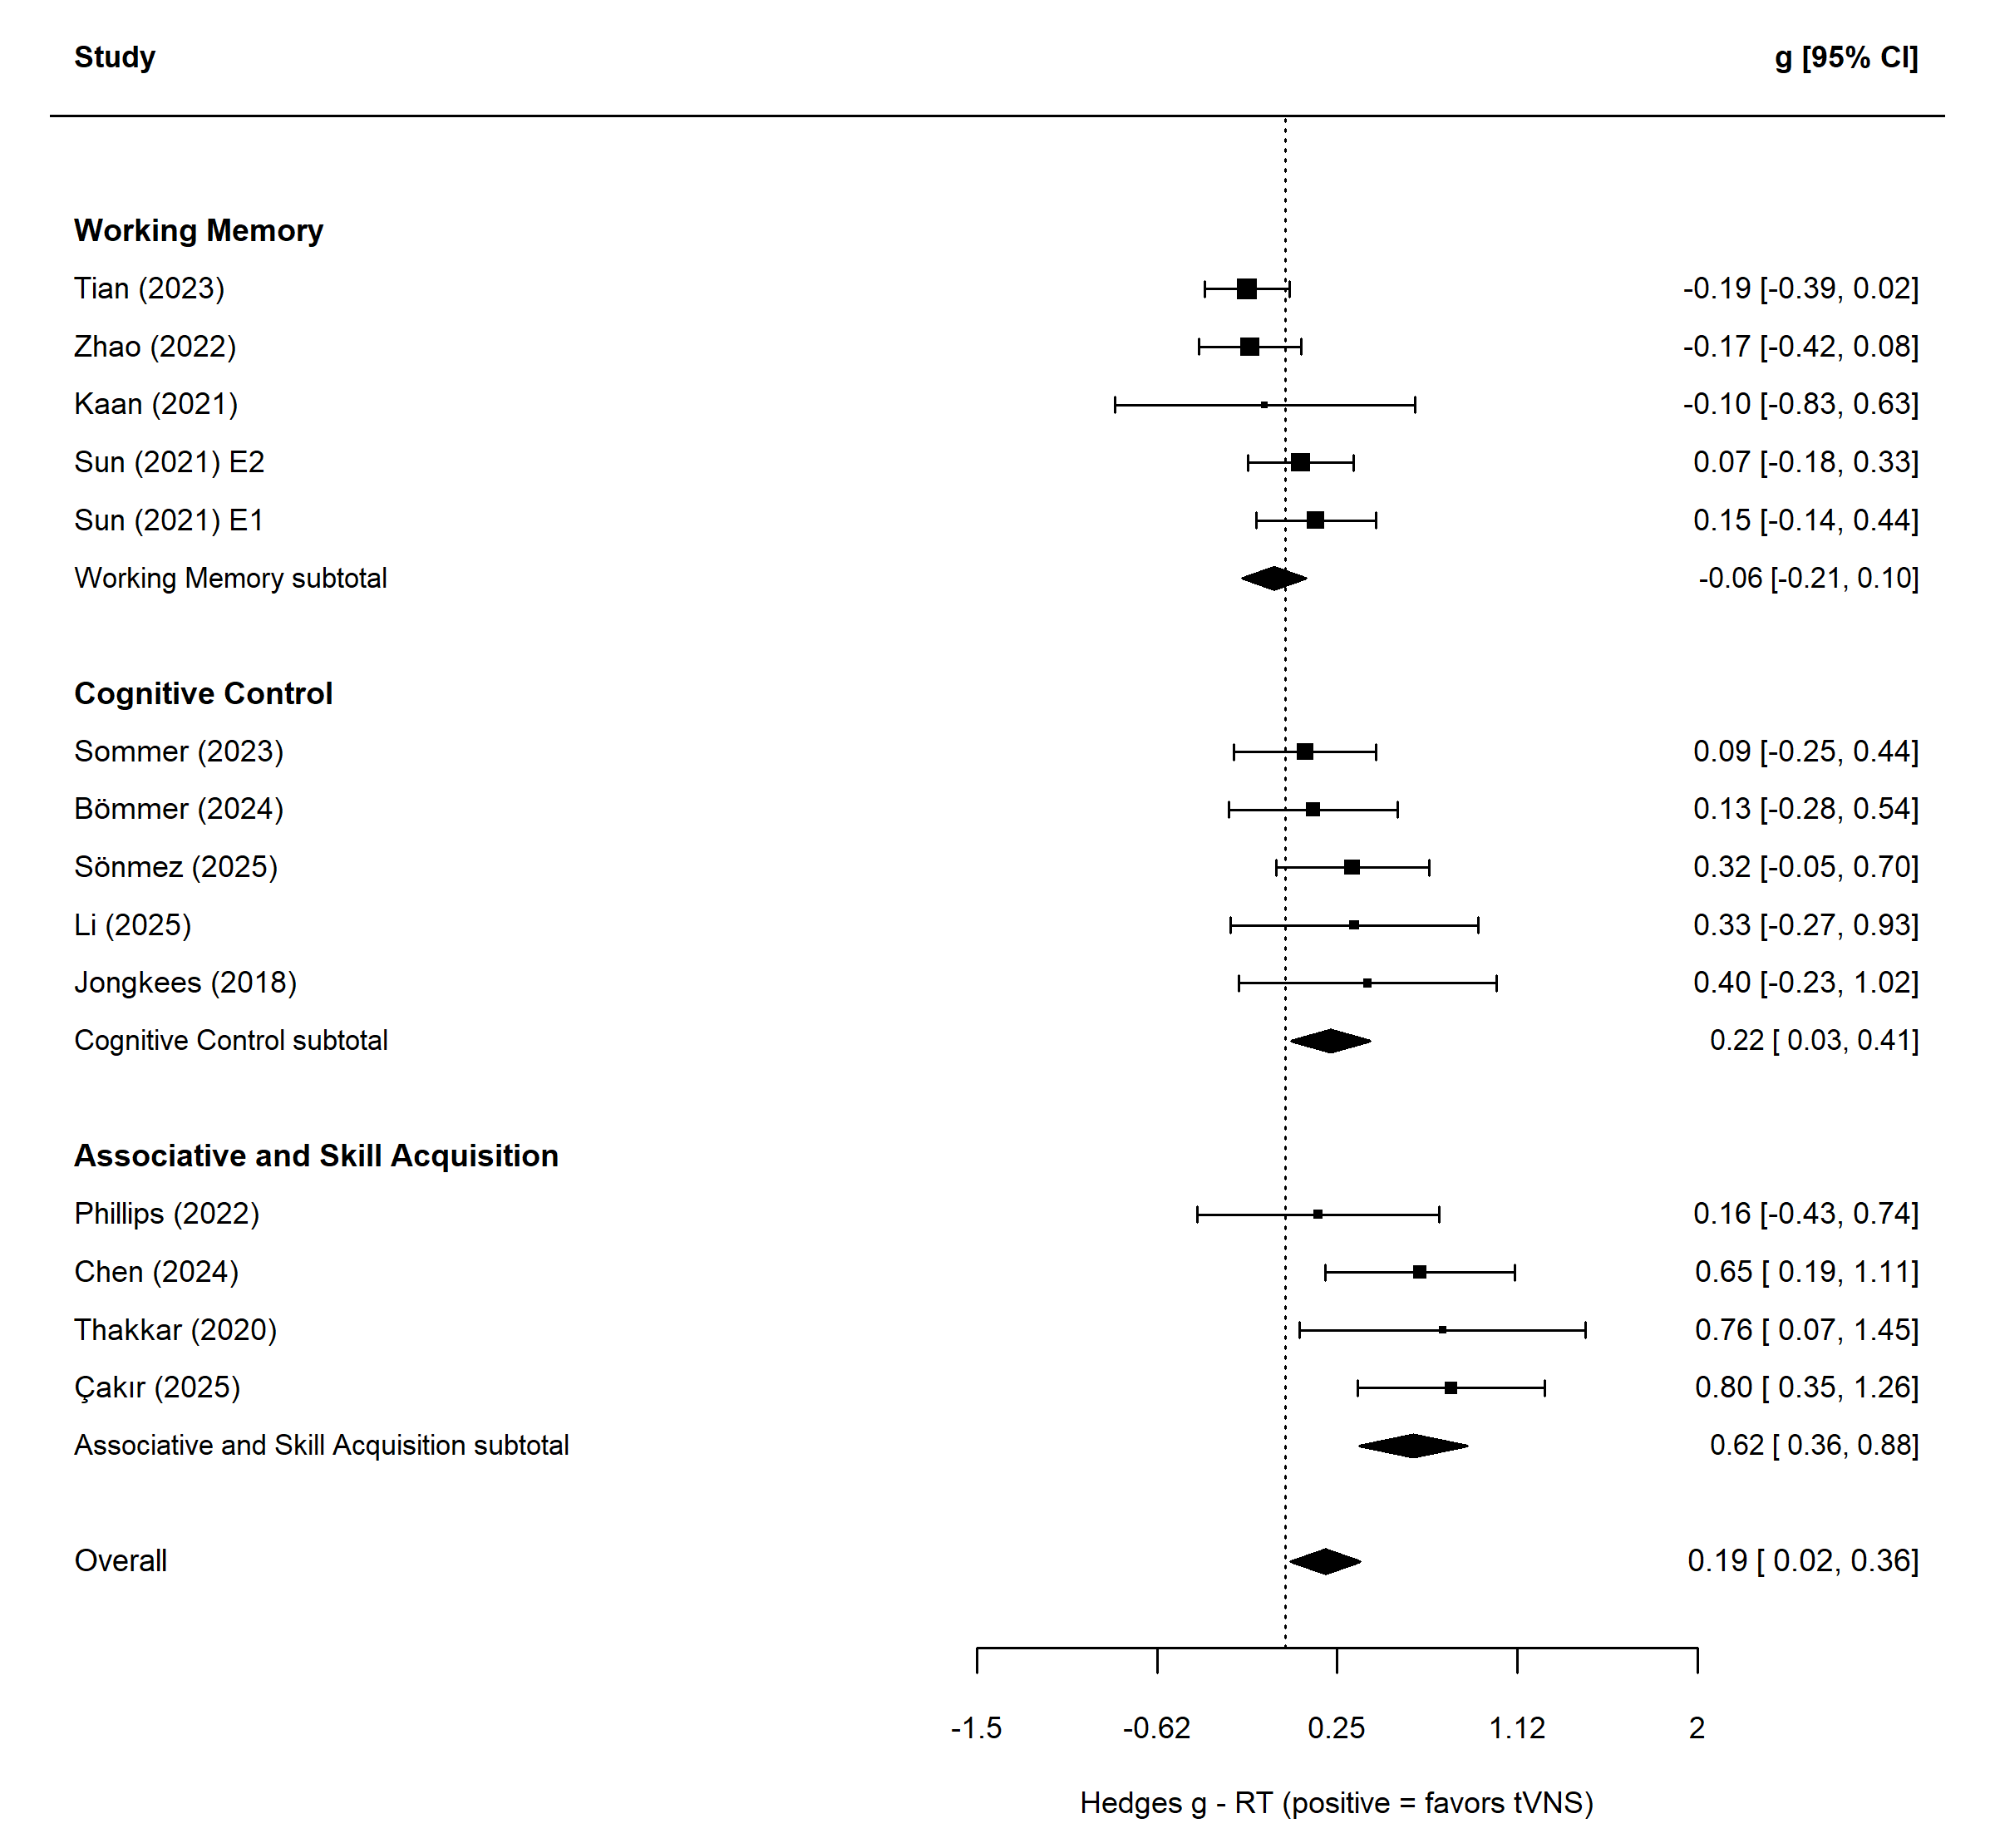
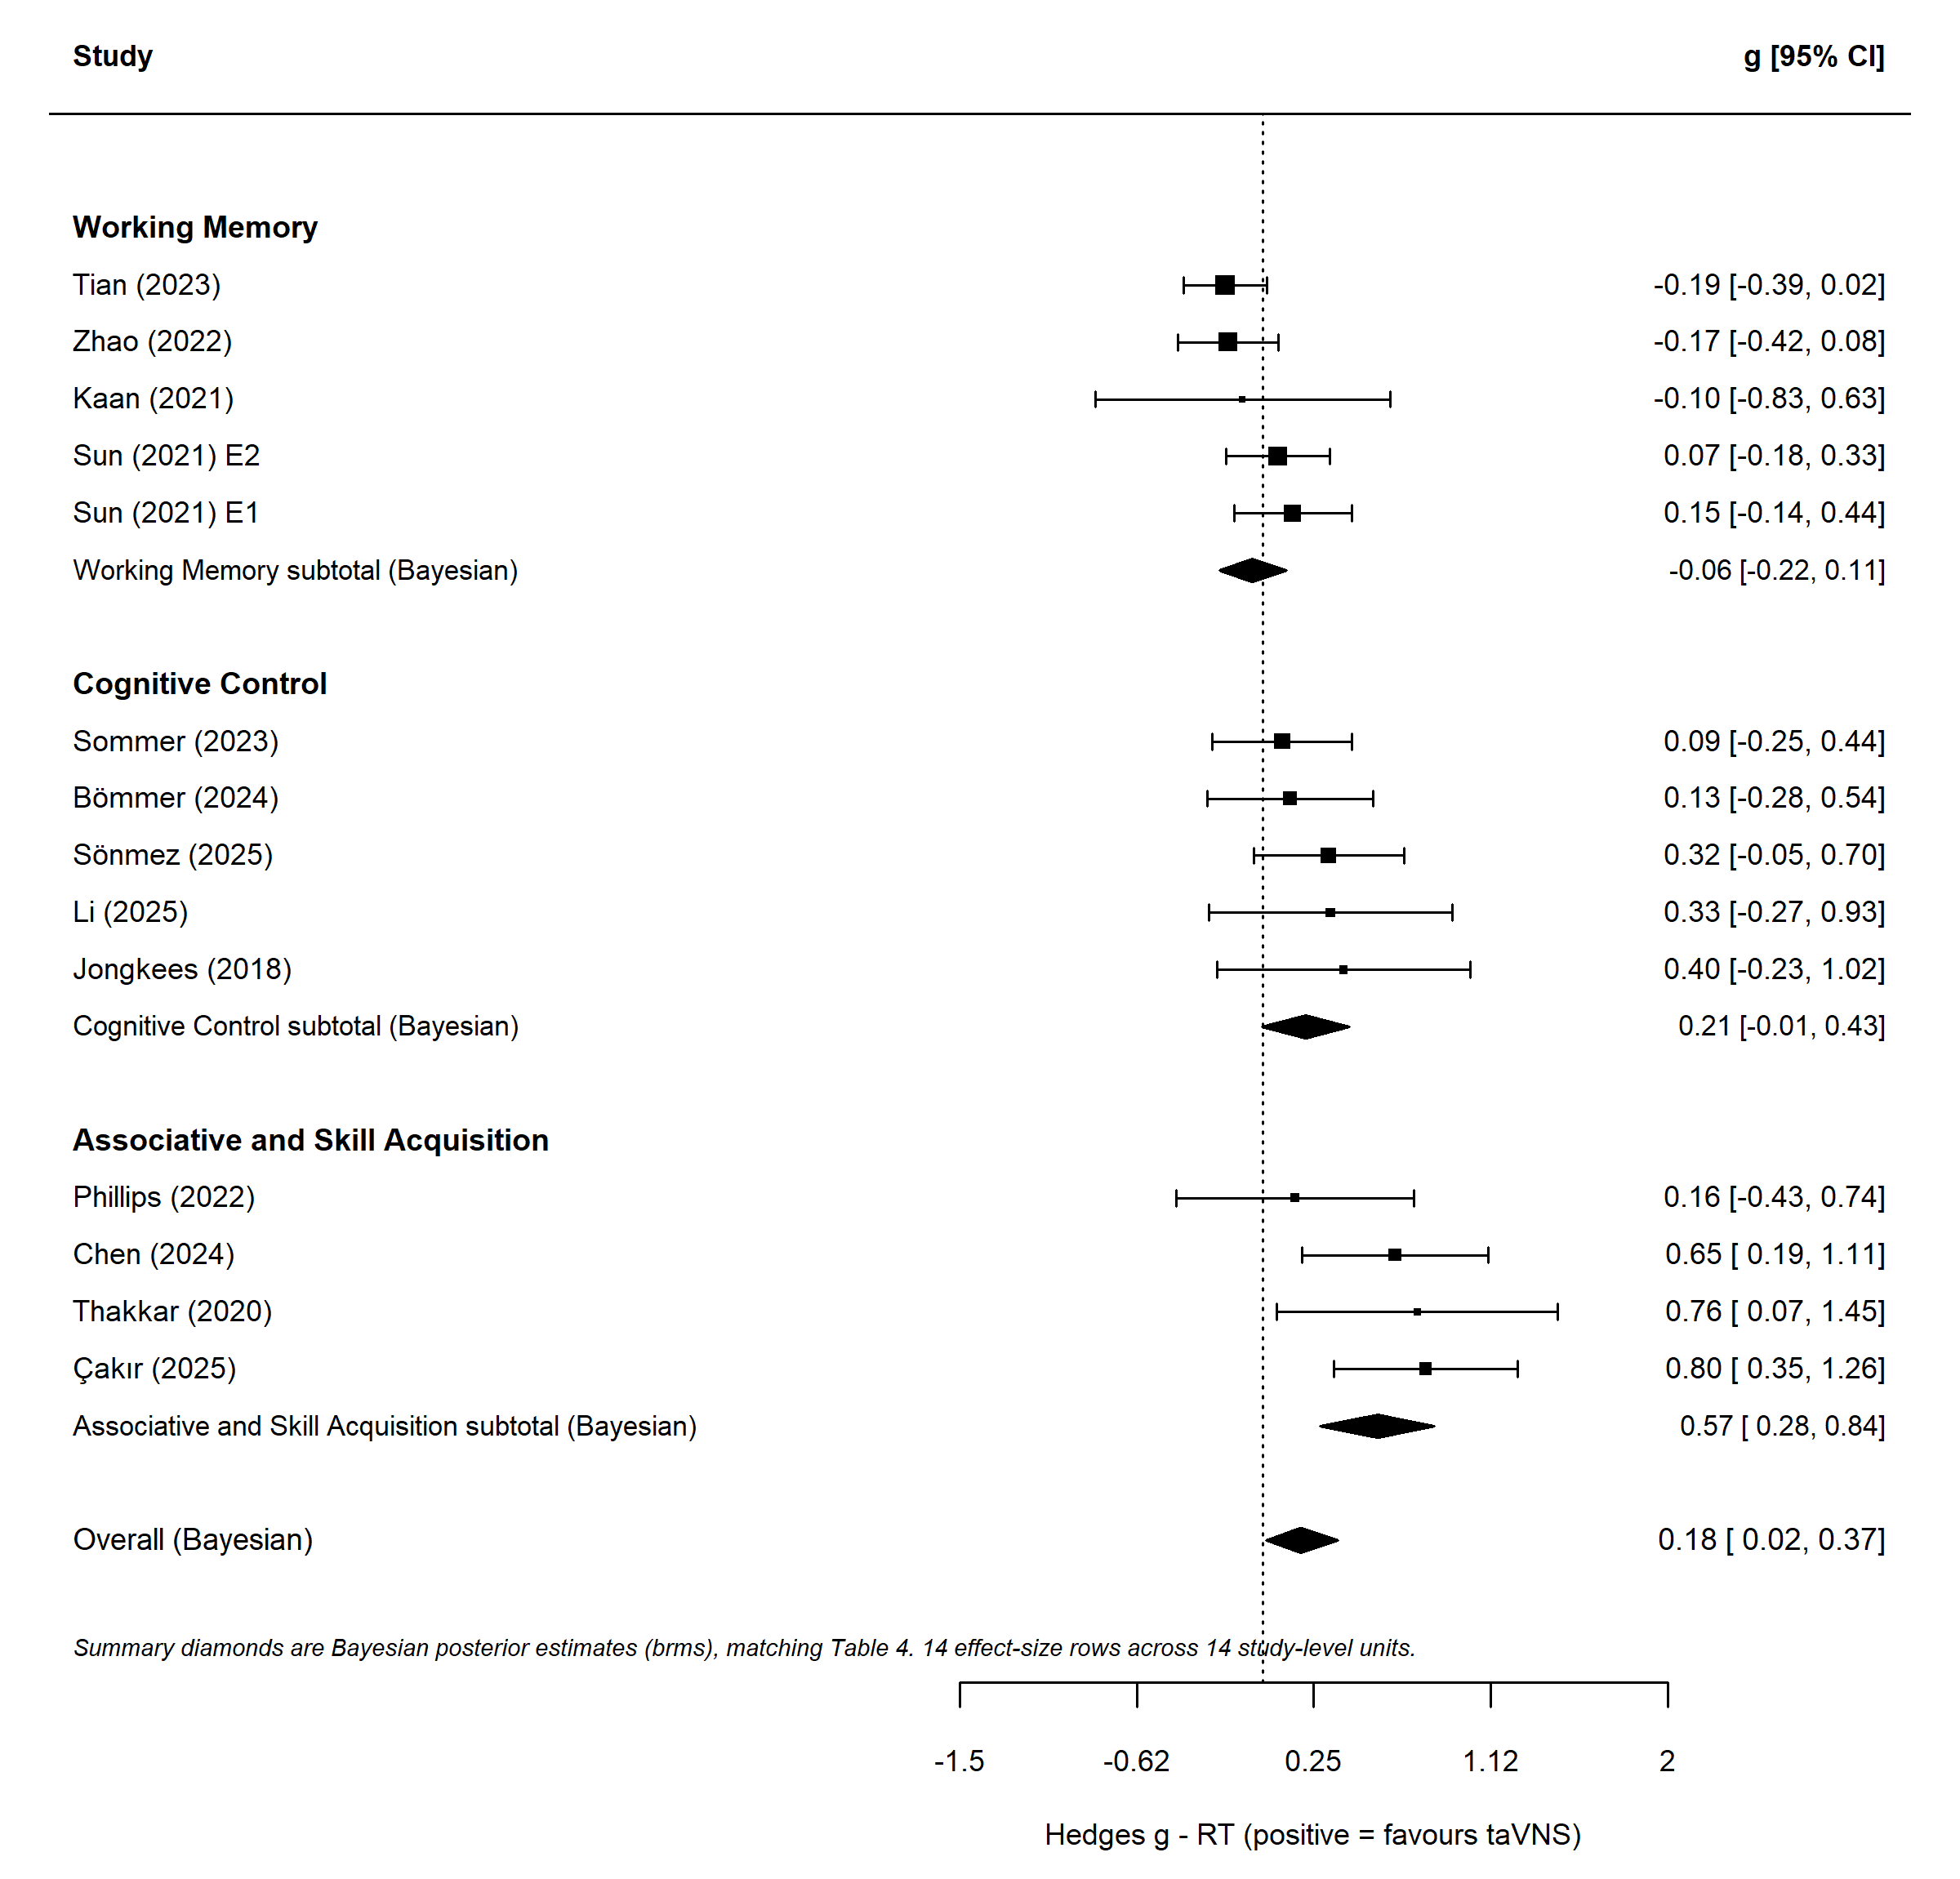
Living-MA: alt-grup tablosu ve manset bulgu Bayesci kestirimlere gecti
Forest subtotal'leri frekansci REML (metafor::rma) idi; makalenin Tablo 4'u ise
Bayesci kismi-havuzlama raporluyor. Iki hucrede cikarim celisiyordu: bildirimsel
bellek doguluk ve bilissel kontrol RT, sekilde sifiri disliyor, tabloda
iceriyordu. Ayrica REML degerleri "%95 CrI" basligi altinda gosteriliyordu.

- Alt-grup tablosu: yedi satir da domain_estimates_{accuracy,rt}.csv'den
  (brms posterior). Cagrisimsal/beceri doguluk k: 8 satir -> 7 calisma-duzeyi
  birim.
- Manset bulgu: RT x Cagrisimsal-beceri g = 0.62 [0.36, 0.88] -> 0.57 [0.28, 0.84].
- Birincil havuz doguluk k: 22 (etki-buyuklugu satiri) -> 21 (calisma-duzeyi birim).
- forest_subgroup_{Accuracy,RT}.png: Bayesci elmaslarla yeniden uretildi
  (analysis/07_tVNS_figure3_bayesian.R).

Boylece pano, makale Tablo 4 ve Sekil 3 ayni modeli raporluyor (CLAUDE.md 10b).

diff --git a/en/living-ma.html b/en/living-ma.html
@@ -15,8 +15,8 @@
   <div class="lm-main">
   <div class="reglinks"><span>Registration: <b>PROSPERO</b></span><span>Data &amp; Code: <b><a href="https://github.com/resulcakir/SR-BMA" target="_blank" rel="noopener">GitHub · SR-BMA</a></b></span><span>Code: <b>brms · bayesmeta</b></span><span>Updated: <b id="lm-date">23 June 2026</b></span></div>
   <h2 class="sech">Primary pooled (registered, brms)</h2>
-  <div class="hl2"><div class="hl"><h4>Accuracy</h4><div class="big" style="color:#2f7d72">+0.15</div><div class="ci">95% CrI [0.06, 0.25]</div><div class="meta">P(g&gt;0) = 99.9% · τ = 0.11 · PI [-0.13, 0.44] · k = 22</div></div><div class="hl"><h4>Response time (RT)</h4><div class="big" style="color:#2f7d72">+0.18</div><div class="ci">95% CrI [0.02, 0.37]</div><div class="meta">P(g&gt;0) = 98.3% · τ = 0.24 · PI [-0.37, 0.76] · k = 14</div></div></div>
-  <div class="success"><b>Key finding.</b> The strongest effect is on <b>response time in associative & skill learning</b>: RT × Associative & Skill <b>g = 0.62 [0.36, 0.88]</b> (fragile, k = 4). Overall ACC g = 0.15, RT g = 0.18. ρ(ACC,RT) = 0.14 [−0.73, 0.86].</div>
+  <div class="hl2"><div class="hl"><h4>Accuracy</h4><div class="big" style="color:#2f7d72">+0.15</div><div class="ci">95% CrI [0.06, 0.25]</div><div class="meta">P(g&gt;0) = 99.9% · τ = 0.11 · PI [-0.13, 0.44] · k = 21</div></div><div class="hl"><h4>Response time (RT)</h4><div class="big" style="color:#2f7d72">+0.18</div><div class="ci">95% CrI [0.02, 0.37]</div><div class="meta">P(g&gt;0) = 98.3% · τ = 0.24 · PI [-0.37, 0.76] · k = 14</div></div></div>
+  <div class="success"><b>Key finding.</b> The strongest effect is on <b>response time in associative & skill learning</b>: RT × Associative & Skill <b>g = 0.57 [0.28, 0.84]</b> (fragile, k = 4). Overall ACC g = 0.15, RT g = 0.18. ρ(ACC,RT) = 0.14 [−0.73, 0.86].</div>
 
   <style>
   .lm-intro{margin:20px 0 4px}
@@ -88,7 +88,7 @@
   </div>
   <div class="panel" id="panel-domains" role="tabpanel" aria-labelledby="tab-domains">
     <h3 class="sech" style="font-size:18px;margin-top:8px">Domain subgroups (registered, bayesmeta)</h3>
-    <div style="overflow-x:auto"><table class="jt"><thead><tr><th>Outcome</th><th>Domain</th><th style="text-align:right">k</th><th style="text-align:right">Pooled g</th><th style="text-align:right">95% CrI</th></tr></thead><tbody><tr><td>Accuracy</td><td>Declarative Memory</td><td class="num">5</td><td class="num" style="color:#2f7d72">+0.09</td><td class="num">[0.01, 0.17]</td></tr><tr><td>Accuracy</td><td>Working Memory</td><td class="num">6</td><td class="num" style="color:#2f7d72">+0.27</td><td class="num">[0.15, 0.38]</td></tr><tr><td>Accuracy</td><td>Cognitive Control</td><td class="num">3</td><td class="num" style="color:#2f7d72">+0.20</td><td class="num">[-0.05, 0.45]</td></tr><tr><td>Accuracy</td><td>Associative & Skill Acquisition</td><td class="num">8</td><td class="num" style="color:#2f7d72">+0.11</td><td class="num">[-0.14, 0.37]</td></tr><tr><td>Response time (RT)</td><td>Working Memory</td><td class="num">5</td><td class="num" style="color:#b5612f">-0.06</td><td class="num">[-0.21, 0.10]</td></tr><tr><td>Response time (RT)</td><td>Cognitive Control</td><td class="num">5</td><td class="num" style="color:#2f7d72">+0.22</td><td class="num">[0.03, 0.41]</td></tr><tr><td>Response time (RT)</td><td>Associative & Skill Acquisition</td><td class="num">4</td><td class="num" style="color:#2f7d72">+0.62</td><td class="num">[0.36, 0.88]</td></tr></tbody></table></div>
+    <div style="overflow-x:auto"><table class="jt"><thead><tr><th>Outcome</th><th>Domain</th><th style="text-align:right">k</th><th style="text-align:right">Pooled g</th><th style="text-align:right">95% CrI</th></tr></thead><tbody><tr><td>Accuracy</td><td>Declarative Memory</td><td class="num">5</td><td class="num" style="color:#2f7d72">+0.09</td><td class="num">[-0.06, 0.22]</td></tr><tr><td>Accuracy</td><td>Working Memory</td><td class="num">6</td><td class="num" style="color:#2f7d72">+0.27</td><td class="num">[0.13, 0.40]</td></tr><tr><td>Accuracy</td><td>Cognitive Control</td><td class="num">3</td><td class="num" style="color:#2f7d72">+0.19</td><td class="num">[-0.07, 0.45]</td></tr><tr><td>Accuracy</td><td>Associative & Skill Acquisition</td><td class="num">7</td><td class="num" style="color:#2f7d72">+0.03</td><td class="num">[-0.12, 0.21]</td></tr><tr><td>Response time (RT)</td><td>Working Memory</td><td class="num">5</td><td class="num" style="color:#b5612f">-0.06</td><td class="num">[-0.22, 0.11]</td></tr><tr><td>Response time (RT)</td><td>Cognitive Control</td><td class="num">5</td><td class="num" style="color:#2f7d72">+0.21</td><td class="num">[-0.01, 0.43]</td></tr><tr><td>Response time (RT)</td><td>Associative & Skill Acquisition</td><td class="num">4</td><td class="num" style="color:#2f7d72">+0.57</td><td class="num">[0.28, 0.84]</td></tr></tbody></table></div>
   </div>
 
   <div class="panel" id="panel-figs" role="tabpanel" aria-labelledby="tab-figs">

diff --git a/living-ma.html b/living-ma.html
@@ -15,8 +15,8 @@
   <div class="lm-main">
   <div class="reglinks"><span>Kayıt: <b>PROSPERO</b></span><span>Veri &amp; Kod: <b><a href="https://github.com/resulcakir/SR-BMA" target="_blank" rel="noopener">GitHub · SR-BMA</a></b></span><span>Kod: <b>brms · bayesmeta</b></span><span>Güncelleme: <b id="lm-date">23 Haziran 2026</b></span></div>
   <h2 class="sech">Birincil havuz (kayıtlı, brms)</h2>
-  <div class="hl2"><div class="hl"><h4>Doğruluk (Accuracy)</h4><div class="big" style="color:#2f7d72">+0.15</div><div class="ci">95% CrI [0.06, 0.25]</div><div class="meta">P(g&gt;0) = 99.9% · τ = 0.11 · PI [-0.13, 0.44] · k = 22</div></div><div class="hl"><h4>Tepki süresi (RT)</h4><div class="big" style="color:#2f7d72">+0.18</div><div class="ci">95% CrI [0.02, 0.37]</div><div class="meta">P(g&gt;0) = 98.3% · τ = 0.24 · PI [-0.37, 0.76] · k = 14</div></div></div>
-  <div class="success"><b>Ana bulgu.</b> En güçlü etki <b>çağrışımsal/beceri öğrenmede, RT'de</b>: RT × Çağrışımsal-beceri <b>g = 0.62 [0.36, 0.88]</b> (kırılgan, k = 4). Genel ACC g = 0.15, RT g = 0.18. ρ(ACC,RT) = 0.14 [−0.73, 0.86].</div>
+  <div class="hl2"><div class="hl"><h4>Doğruluk (Accuracy)</h4><div class="big" style="color:#2f7d72">+0.15</div><div class="ci">95% CrI [0.06, 0.25]</div><div class="meta">P(g&gt;0) = 99.9% · τ = 0.11 · PI [-0.13, 0.44] · k = 21</div></div><div class="hl"><h4>Tepki süresi (RT)</h4><div class="big" style="color:#2f7d72">+0.18</div><div class="ci">95% CrI [0.02, 0.37]</div><div class="meta">P(g&gt;0) = 98.3% · τ = 0.24 · PI [-0.37, 0.76] · k = 14</div></div></div>
+  <div class="success"><b>Ana bulgu.</b> En güçlü etki <b>çağrışımsal/beceri öğrenmede, RT'de</b>: RT × Çağrışımsal-beceri <b>g = 0.57 [0.28, 0.84]</b> (kırılgan, k = 4). Genel ACC g = 0.15, RT g = 0.18. ρ(ACC,RT) = 0.14 [−0.73, 0.86].</div>
 
   <style>
   .lm-intro{margin:20px 0 4px}
@@ -88,7 +88,7 @@
   </div>
   <div class="panel" id="panel-domains" role="tabpanel" aria-labelledby="tab-domains">
     <h3 class="sech" style="font-size:18px;margin-top:8px">Alan alt-grupları (kayıtlı, bayesmeta)</h3>
-    <div style="overflow-x:auto"><table class="jt"><thead><tr><th>Sonuç</th><th>Alan</th><th style="text-align:right">k</th><th style="text-align:right">Havuz g</th><th style="text-align:right">%95 CrI</th></tr></thead><tbody><tr><td>Doğruluk (Accuracy)</td><td>Bildirimsel bellek</td><td class="num">5</td><td class="num" style="color:#2f7d72">+0.09</td><td class="num">[0.01, 0.17]</td></tr><tr><td>Doğruluk (Accuracy)</td><td>Çalışma belleği</td><td class="num">6</td><td class="num" style="color:#2f7d72">+0.27</td><td class="num">[0.15, 0.38]</td></tr><tr><td>Doğruluk (Accuracy)</td><td>Bilişsel kontrol</td><td class="num">3</td><td class="num" style="color:#2f7d72">+0.20</td><td class="num">[-0.05, 0.45]</td></tr><tr><td>Doğruluk (Accuracy)</td><td>Çağrışımsal / beceri edinimi</td><td class="num">8</td><td class="num" style="color:#2f7d72">+0.11</td><td class="num">[-0.14, 0.37]</td></tr><tr><td>Tepki süresi (RT)</td><td>Çalışma belleği</td><td class="num">5</td><td class="num" style="color:#b5612f">-0.06</td><td class="num">[-0.21, 0.10]</td></tr><tr><td>Tepki süresi (RT)</td><td>Bilişsel kontrol</td><td class="num">5</td><td class="num" style="color:#2f7d72">+0.22</td><td class="num">[0.03, 0.41]</td></tr><tr><td>Tepki süresi (RT)</td><td>Çağrışımsal / beceri edinimi</td><td class="num">4</td><td class="num" style="color:#2f7d72">+0.62</td><td class="num">[0.36, 0.88]</td></tr></tbody></table></div>
+    <div style="overflow-x:auto"><table class="jt"><thead><tr><th>Sonuç</th><th>Alan</th><th style="text-align:right">k</th><th style="text-align:right">Havuz g</th><th style="text-align:right">%95 CrI</th></tr></thead><tbody><tr><td>Doğruluk (Accuracy)</td><td>Bildirimsel bellek</td><td class="num">5</td><td class="num" style="color:#2f7d72">+0.09</td><td class="num">[-0.06, 0.22]</td></tr><tr><td>Doğruluk (Accuracy)</td><td>Çalışma belleği</td><td class="num">6</td><td class="num" style="color:#2f7d72">+0.27</td><td class="num">[0.13, 0.40]</td></tr><tr><td>Doğruluk (Accuracy)</td><td>Bilişsel kontrol</td><td class="num">3</td><td class="num" style="color:#2f7d72">+0.19</td><td class="num">[-0.07, 0.45]</td></tr><tr><td>Doğruluk (Accuracy)</td><td>Çağrışımsal / beceri edinimi</td><td class="num">7</td><td class="num" style="color:#2f7d72">+0.03</td><td class="num">[-0.12, 0.21]</td></tr><tr><td>Tepki süresi (RT)</td><td>Çalışma belleği</td><td class="num">5</td><td class="num" style="color:#b5612f">-0.06</td><td class="num">[-0.22, 0.11]</td></tr><tr><td>Tepki süresi (RT)</td><td>Bilişsel kontrol</td><td class="num">5</td><td class="num" style="color:#2f7d72">+0.21</td><td class="num">[-0.01, 0.43]</td></tr><tr><td>Tepki süresi (RT)</td><td>Çağrışımsal / beceri edinimi</td><td class="num">4</td><td class="num" style="color:#2f7d72">+0.57</td><td class="num">[0.28, 0.84]</td></tr></tbody></table></div>
   </div>
 
   <div class="panel" id="panel-figs" role="tabpanel" aria-labelledby="tab-figs">